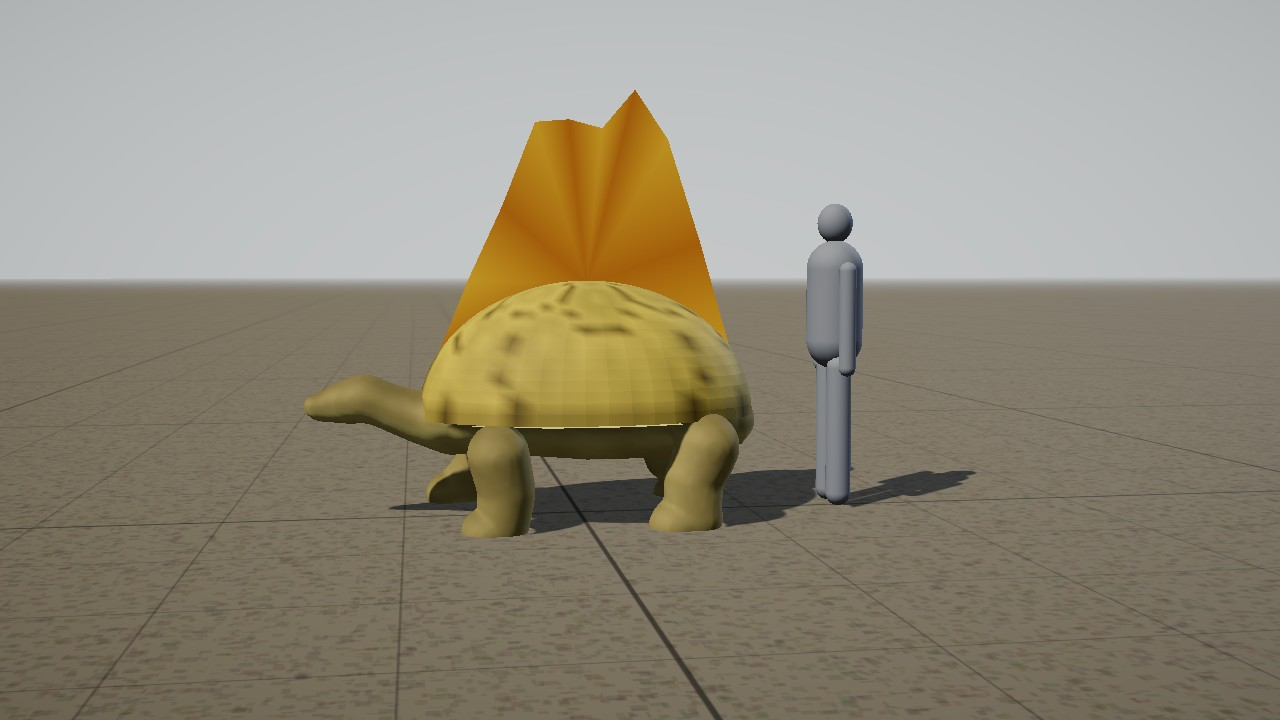
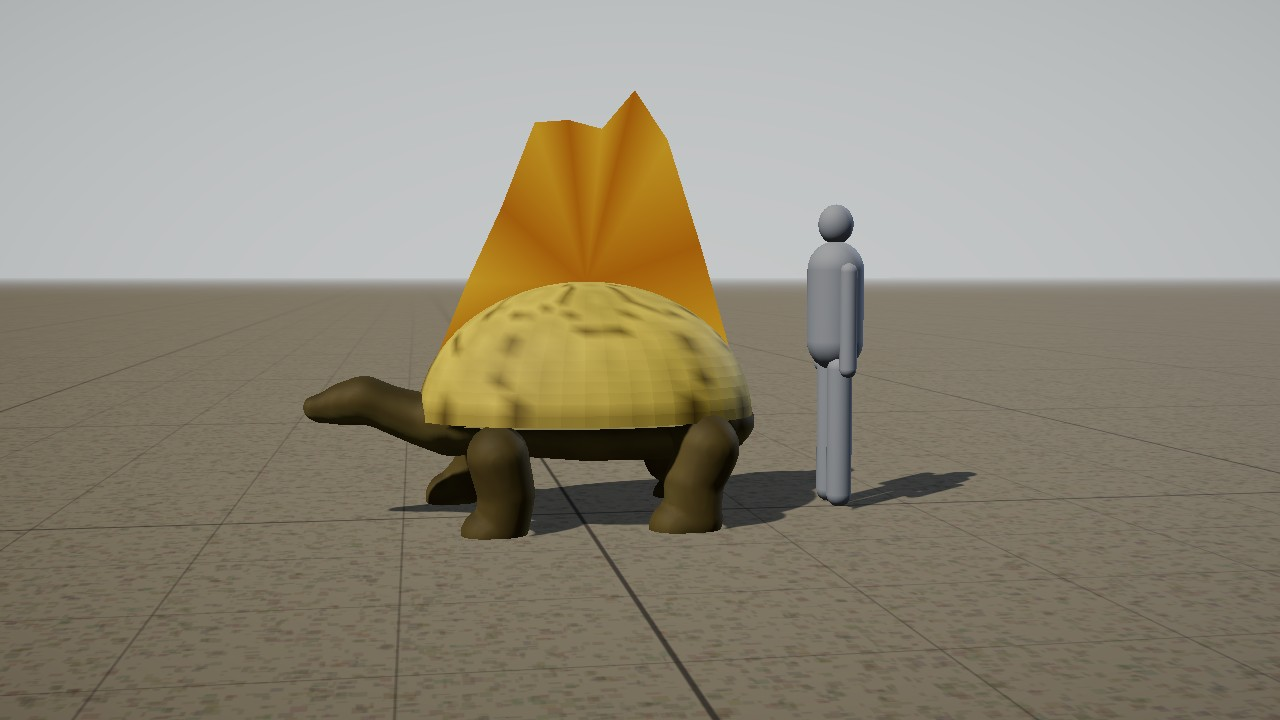
Bodies: Session 1927 — the tortoises' hides darker, read at noon in the game (Session 1906's note; OG-040)
Claude-Session: https://claude.ai/code/session_019eFMMod6aV7gdqFC3L4u1c

diff --git a/docs/prototypes/levelup/creatures.js b/docs/prototypes/levelup/creatures.js
@@ -1437,11 +1437,13 @@ export const PLANS = {
       ['radial', { c: [0, 1.5, 0], parent: 'spine0', n: 14, ring: .32, len: 2.4, seg: 7, down: 88, curl: -1, r: [.009, .003], thread: 1, jitter: .1, tag: 'thr' }]
     ] },
   // ── Session 775: shells and feathered wings ──
+  // Session 1927: the two tortoises' hides darker (Session 1906's note: the Sailshell's pillar legs rendered pale, near skin, at noon,
+  // and the Mossback's grey); OG-040 draws them as old leathery scale, the Sailshell's tan-brown and the Mossback's dark grey-brown
   mossback: { name: 'Mossback', src: 'OG-040 (an ancient tortoise carrying a living garden)', gaits: ['walk', 'stand'], speedK: .22, wag: .02, pant: .02, fold: .4, rough: .8,
-    palette: { coat: [.42, .4, .32], saddle: [.32, .3, .24], belly: [.62, .56, .42], dark: [.06, .05, .04], shell: [.38, .32, .19], seam: [.17, .11, .06], moss: [.3, .43, .16], fern: [.26, .5, .18], bloom: [.88, .76, .3], bloom2: [.62, .36, .78] },
+    palette: { coat: [.2, .19, .15], saddle: [.15, .14, .11], belly: [.36, .32, .24], dark: [.06, .05, .04], shell: [.38, .32, .19], seam: [.17, .11, .06], moss: [.3, .43, .16], fern: [.26, .5, .18], bloom: [.88, .76, .3], bloom2: [.62, .36, .78] },
     parts: null },
   sailshell: { name: 'Sailshell', src: 'OG-040 (a desert tortoise with a sail-like shell)', gaits: ['walk', 'stand'], speedK: .25, wag: .02, pant: .02, fold: .4, rough: .7, finOpacity: 1,
-    palette: { coat: [.62, .5, .36], saddle: [.48, .37, .25], belly: [.8, .7, .52], dark: [.08, .06, .04], shell: [.76, .58, .34], seam: [.34, .21, .1], sail: [.8, .3, .15], sail2: [.93, .56, .25] },
+    palette: { coat: [.38, .28, .18], saddle: [.28, .2, .12], belly: [.52, .43, .3], dark: [.08, .06, .04], shell: [.76, .58, .34], seam: [.34, .21, .1], sail: [.8, .3, .15], sail2: [.93, .56, .25] },
     parts: null },
   skyraven: { name: 'Skyraven', src: 'OG-031 (follows travellers, scavenges battlefields)', gaits: ['hop', 'soar', 'walk', 'stand'], flyH: .9, finOpacity: 1, rough: .35, neckNod: .1, wag: .04, fold: 1.1,
     palette: { coat: [.08, .08, .1], saddle: [.05, .05, .07], belly: [.1, .1, .12], dark: [.03, .03, .03], horn: [.05, .05, .06], skin: [.08, .08, .08], feather: [.08, .08, .1], featherTip: [.03, .03, .05], covert: [.1, .1, .13] },

diff --git a/vendor/creatures.builder.js b/vendor/creatures.builder.js
@@ -2867,11 +2867,13 @@ const PLANS = {
       ['radial', { c: [0, 1.5, 0], parent: 'spine0', n: 14, ring: .32, len: 2.4, seg: 7, down: 88, curl: -1, r: [.009, .003], thread: 1, jitter: .1, tag: 'thr' }]
     ] },
   // ── Session 775: shells and feathered wings ──
+  // Session 1927: the two tortoises' hides darker (Session 1906's note: the Sailshell's pillar legs rendered pale, near skin, at noon,
+  // and the Mossback's grey); OG-040 draws them as old leathery scale, the Sailshell's tan-brown and the Mossback's dark grey-brown
   mossback: { name: 'Mossback', src: 'OG-040 (an ancient tortoise carrying a living garden)', gaits: ['walk', 'stand'], speedK: .22, wag: .02, pant: .02, fold: .4, rough: .8,
-    palette: { coat: [.42, .4, .32], saddle: [.32, .3, .24], belly: [.62, .56, .42], dark: [.06, .05, .04], shell: [.38, .32, .19], seam: [.17, .11, .06], moss: [.3, .43, .16], fern: [.26, .5, .18], bloom: [.88, .76, .3], bloom2: [.62, .36, .78] },
+    palette: { coat: [.2, .19, .15], saddle: [.15, .14, .11], belly: [.36, .32, .24], dark: [.06, .05, .04], shell: [.38, .32, .19], seam: [.17, .11, .06], moss: [.3, .43, .16], fern: [.26, .5, .18], bloom: [.88, .76, .3], bloom2: [.62, .36, .78] },
     parts: null },
   sailshell: { name: 'Sailshell', src: 'OG-040 (a desert tortoise with a sail-like shell)', gaits: ['walk', 'stand'], speedK: .25, wag: .02, pant: .02, fold: .4, rough: .7, finOpacity: 1,
-    palette: { coat: [.62, .5, .36], saddle: [.48, .37, .25], belly: [.8, .7, .52], dark: [.08, .06, .04], shell: [.76, .58, .34], seam: [.34, .21, .1], sail: [.8, .3, .15], sail2: [.93, .56, .25] },
+    palette: { coat: [.38, .28, .18], saddle: [.28, .2, .12], belly: [.52, .43, .3], dark: [.08, .06, .04], shell: [.76, .58, .34], seam: [.34, .21, .1], sail: [.8, .3, .15], sail2: [.93, .56, .25] },
     parts: null },
   skyraven: { name: 'Skyraven', src: 'OG-031 (follows travellers, scavenges battlefields)', gaits: ['hop', 'soar', 'walk', 'stand'], flyH: .9, finOpacity: 1, rough: .35, neckNod: .1, wag: .04, fold: 1.1,
     palette: { coat: [.08, .08, .1], saddle: [.05, .05, .07], belly: [.1, .1, .12], dark: [.03, .03, .03], horn: [.05, .05, .06], skin: [.08, .08, .08], feather: [.08, .08, .1], featherTip: [.03, .03, .05], covert: [.1, .1, .13] },

diff --git a/docs/devlog/1927.md b/docs/devlog/1927.md
@@ -1,0 +1,32 @@
+## v80 — Session 1927 — the tortoises' hides, darker at noon (L3; OG-040; Session 1906's note)
+Session 1906 left a note: the Sailshell's pillar legs rendered pale at noon, close to a person's skin. Session 1920 left it untouched.
+This run's picture of the Mossback showed the same on its legs, a pale grey. In the kit's own light both hides read as intended (the
+Mossback's near black-brown). The game's noon is brighter on a vertical hide, under the sun and the hemisphere together. A hide of
+[.3,.28,.22] came out about twice as light as it reads in the kit. I checked the colour path first. The kit's tones reach the game's
+vertex colours unconverted, and the game's linear output shows them as written, so nothing was lost there. The fix is in the palette.
+
+**What changed** (`docs/prototypes/levelup/creatures.js`, two palettes; `vendor/creatures.builder.js` rebuilt).
+- The Mossback's hide:
+  - coat [.2,.19,.15], was [.42,.4,.32];
+  - saddle [.15,.14,.11];
+  - belly [.36,.32,.24].
+- The Sailshell's hide:
+  - coat [.38,.28,.18], was [.62,.5,.36];
+  - saddle [.28,.2,.12];
+  - belly [.52,.43,.3].
+- The shells, the sail and the garden are unchanged.
+- OG-040 draws both as old leathery scale: the Mossback's dark grey-brown, the Sailshell's tan-brown.
+
+### Verified (headless Chromium)
+- The kit's `creatures.check.mjs --plans=mossback,sailshell` passed everything.
+- `f4animals` 1/1 with no retry. The hides are unchanged in shape: 8,648 and 7,872 tris.
+- `creatures_bundle.py --check` matches.
+- Pictures:
+  - `docs/prototypes/f4/f4-tortoises-hide.jpg`, new: both tortoises in the game at noon from 4 m at eye height, on the green where
+    Session 1926's was taken. The Sailshell's legs read tan-brown and the Mossback's dark grey-brown, against a townsman's skin
+    passing between them.
+  - `creatures-mossback.jpg` and `creatures-sailshell.jpg`, the kit's, retaken. They are darker in the kit's softer light than in
+    the game.
+
+### Needs eyes
+- At dusk and in shade the Mossback's legs may now read as black.
